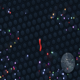
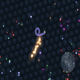
commit stuff

diff --git a/new_main.py b/new_main.py
@@ -1,4 +1,7 @@
 import os
+import time
+
+from common import IS_WINDOWS, LEARNING_RATE
 
 abspath = os.path.abspath(__file__)
 dname = os.path.dirname(abspath)
@@ -32,12 +35,26 @@ if __name__ == "__main__":
 
         if os.path.exists("snake_model.zip"):
             print("Loading previous model")
-            model = CustomTD3.load("snake_model", env=env, action_noise=action_noise, verbose=1)
+            model = CustomTD3.load("snake_model", action_noise=action_noise, verbose=1, learning_rate=LEARNING_RATE)
+            model.set_env(env)
         else:
-            model = CustomTD3("CnnPolicy", env, action_noise=action_noise, verbose=1)
+            model = CustomTD3("CnnPolicy", env, action_noise=action_noise, verbose=1, learning_rate=LEARNING_RATE)
 
         # Train the agent
-        model.learn(total_timesteps=int(2e5))
+        if not IS_WINDOWS:
+            model.learn(total_timesteps=int(2e5))
+        else:
+            # Watch trained agent
+            env.reset()
 
-        # Save the agent
-        model.save("snake_model")
+            # Wait for the game to start
+            while not env.playing:
+                is_playing, size, reversed_angle = env.driver.get_game_data()
+                env.playing = is_playing
+                time.sleep(0.5)
+
+            obs = env.driver.observation()
+            while env.playing:
+                action, _states = model.predict(obs)
+
+                obs, rewards, dones, info = env.step(action)

diff --git a/game_environment.py b/game_environment.py
@@ -19,6 +19,7 @@ class SlitherioEnv(gym.Env):
     driver: GameDriver
     last_snake_size: Optional[int]
     last_snake_angle = 0.0
+    playing = False
 
     def __init__(self):
         super(SlitherioEnv, self).__init__()
@@ -35,11 +36,6 @@ class SlitherioEnv(gym.Env):
         self.driver = GameDriver()
 
     def step(self, action: typing.Any):
-
-        # if len(action) == 1:
-        #     # For some reason it sometimes omits the second value
-        #     d, b = action[0][0], 0.0
-        # else:
         try:
             d, b = action[0]
         except TypeError:
@@ -49,8 +45,6 @@ class SlitherioEnv(gym.Env):
         angle_adjustment = (d - 0.5) * np.pi
 
         new_angle = (self.last_snake_angle + angle_adjustment) % TWO_PI
-
-        # print(f"Setting angle to {self.last_snake_angle} + d{angle_adjustment} = {new_angle}")
 
         # New mouse coords
         nx, ny = angle_to_mouse_coords(new_angle)
@@ -62,8 +56,9 @@ class SlitherioEnv(gym.Env):
 
         is_playing, size, reversed_angle = self.driver.get_game_data()
 
-        if reversed_angle is not None:
-            self.last_snake_angle = new_angle
+        self.playing = is_playing
+
+        self.last_snake_angle = new_angle
 
         afk_penalty = None
 

diff --git a/common.py b/common.py
@@ -3,3 +3,4 @@ import sys
 IS_WINDOWS = sys.platform.startswith('win')
 
 OBSERVATION_SIZE = (80, 80)
+LEARNING_RATE = 0.1
